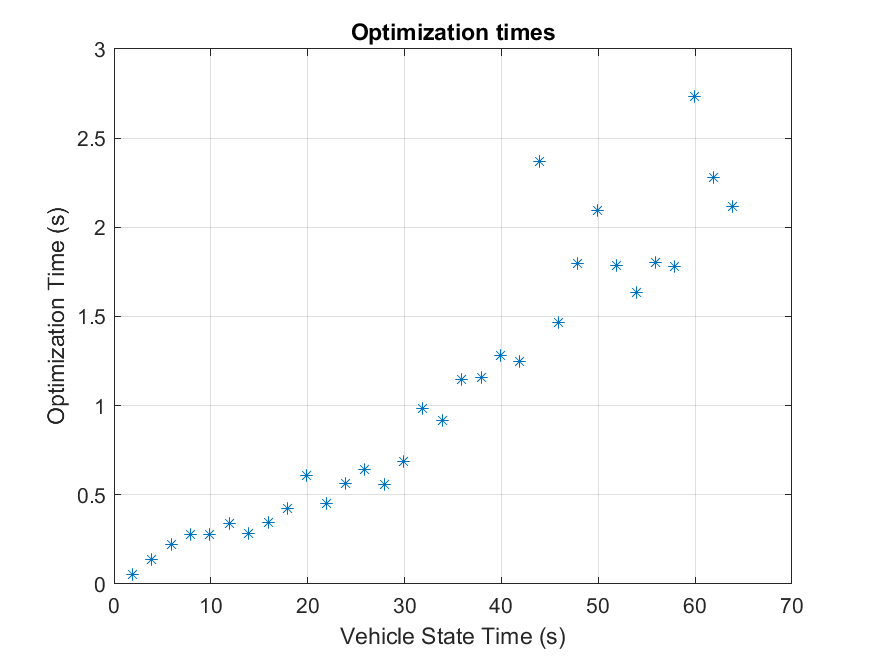
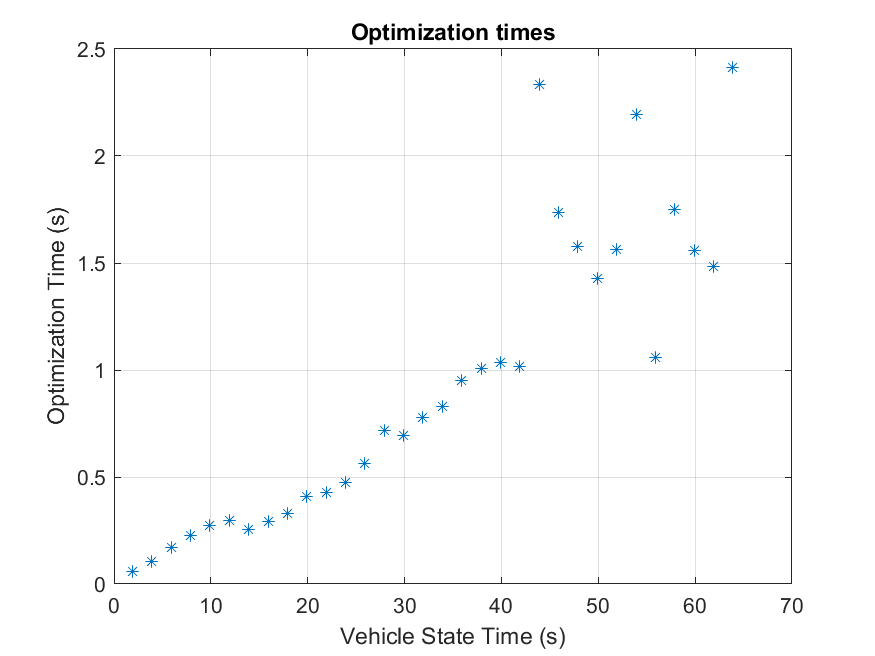
updates

diff --git a/Code/plotter.m b/Code/plotter.m
@@ -16,27 +16,56 @@ end
 if isempty(plots) || ismember("Errors",plots)
 minislam.graphics.FigureManager.getFigure('Errors');
 clf
-plot(results{:}.vehicleStateTime, results{:}.vehicleStateHistory'-results{:}.vehicleTrueStateHistory')
+error = results{:}.vehicleStateHistory'-results{:}.vehicleTrueStateHistory';
+plot(results{:}.vehicleStateTime, error(:,1:2))
 xlabel("Vehicle State Time (s)")
-ylabel("Error")
-legend("X Error","Y Error","\Phi Error")
-title("State Error")
+ylabel("Error (m)")
+legend("X Error","Y Error")
+title("Vehicle Position Error")
 grid on
-saveas(gcf, plot_heading+'_error', 'png');
-hold on
+saveas(gcf, plot_heading+'_position_error', 'png');
+end
+
+if isempty(plots) || ismember("Errors",plots)
+minislam.graphics.FigureManager.getFigure('Heading Errors');
+clf
+error = results{:}.vehicleStateHistory'-results{:}.vehicleTrueStateHistory';
+plot(results{:}.vehicleStateTime, error(:,3))
+xlabel("Vehicle State Time (s)")
+ylabel("Error (rad)")
+legend("\Phi Error")
+title("Vehicle Heading Error")
+grid on
+saveas(gcf, plot_heading+'_heading_error', 'png');
 end
 
 if isempty(plots) || ismember("Covariance",plots)
 % Plot covariance
 minislam.graphics.FigureManager.getFigure('Vehicle Covariances');
 clf
-plot(results{:}.vehicleStateTime, results{:}.vehicleCovarianceHistory')
-ylabel("Covariance")
+cov = results{:}.vehicleCovarianceHistory';
+plot(results{:}.vehicleStateTime, cov(:,1:2))
+ylabel("Covariance (m^2)")
 xlabel("Vehicle State Time (s)")
-legend("X Variance","Y Variance","\Phi Variance")
-title("State Covariances")
+legend("X Variance","Y Variance")
+title("Vehicle Position Covariances")
 grid on
-saveas(gcf, plot_heading+'_covariance', 'png');
+saveas(gcf, plot_heading+'_position_covariance', 'png');
+hold on
+end
+
+if isempty(plots) || ismember("Covariance",plots)
+% Plot covariance
+minislam.graphics.FigureManager.getFigure('Vehicle Heading Covariances');
+clf
+cov = results{:}.vehicleCovarianceHistory';
+plot(results{:}.vehicleStateTime, cov(:,3))
+ylabel("Covariance (rad^2)")
+xlabel("Vehicle State Time (s)")
+legend("\Phi Covariance")
+title("Vehicle Heading Covariances")
+grid on
+saveas(gcf, plot_heading+'_heading_covariance', 'png');
 hold on
 end
 

diff --git a/Code/q1_b.m b/Code/q1_b.m
@@ -10,7 +10,7 @@ configuration = drivebot.SimulatorConfiguration();
 % with no noise in them. You might find this useful for debugging.
 % However, unless specified otherwise, any submitted results must have this
 % value set to true.
-configuration.perturbWithNoise = false;
+configuration.perturbWithNoise = true;
 
 % Set up the simulator
 simulator = drivebot.DriveBotSimulator(configuration, 'q1_b');
@@ -18,7 +18,7 @@ simulator = drivebot.DriveBotSimulator(configuration, 'q1_b');
 % Create the localization system
 drivebotSLAMSystem = drivebot.DriveBotSLAMSystem(configuration);
 
-drivebotSLAMSystem.setRecommendOptimizationPeriod(10);
+drivebotSLAMSystem.setRecommendOptimizationPeriod(5);
 
 % This tells the SLAM system to do a very detailed check that the input
 % appears to be correct but can make the code run slowly. Once you are
@@ -32,4 +32,4 @@ results = minislam.mainLoop(simulator, drivebotSLAMSystem);
 % results. For your report, you need to look at improving these figures
 % including labelling axes, etc.
 
-plotter(["Errors","Covariance"],"Figures/q1b",results)
+plotter(["Errors","Covariance","Chi2"],"Figures/q1b",results)

diff --git a/Code/q1_d.m b/Code/q1_d.m
@@ -10,7 +10,7 @@ configuration.enableGPS = true;
 % with no noise in them. You might find this useful for debugging.
 % However, unless specified otherwise, any submitted results for any questions or subparts of questions
 % must have this value set to true.
-configuration.perturbWithNoise = false;
+configuration.perturbWithNoise = true;
 
 % Set up the simulator
 simulator = drivebot.DriveBotSimulator(configuration, 'q1_d');
@@ -18,7 +18,7 @@ simulator = drivebot.DriveBotSimulator(configuration, 'q1_d');
 % Create the localization system
 drivebotSLAMSystem = drivebot.DriveBotSLAMSystem(configuration);
 
-% drivebotSLAMSystem.setRecommendOptimizationPeriod(10);
+% drivebotSLAMSystem.setRecommendOptimizationPeriod(1);
 
 % This tells the SLAM system to do a very detailed check that the input
 % appears to be correct but can make the code run slowly. Once you are

diff --git a/Code/+drivebot/DriveBotSLAMSystem.m b/Code/+drivebot/DriveBotSLAMSystem.m
@@ -124,6 +124,7 @@ classdef DriveBotSLAMSystem < minislam.slam.SLAMSystem
             [xS, PS] = this.graph.computeMarginals(this.currentVehicleVertex);
             x=full(xS);
             P=full(PS);
+            disp(P)
         end
         
         % Returns the entire history of the platform estimates. Suppose
@@ -299,6 +300,8 @@ classdef DriveBotSLAMSystem < minislam.slam.SLAMSystem
             % Create a GPS measurement edge and add it to the graph
             % warning('drivebotslam:handlegpsobservationevent:unimplemented', ...
             %     'Implement the rest of this method for Q1c.');
+
+            disp(event)
 
             % Creates a new GPSMeasurement Edge
             gpsMeasurementEdge = drivebot.graph.GPSMeasurementEdge(this.configuration.gpsPositionOffset);

diff --git a/Code/q2_d.m b/Code/q2_d.m
@@ -1,5 +1,5 @@
 % This script runs Q2(d)
-
+rng(0)
 % Create the configuration object.
 configuration = drivebot.SimulatorConfiguration();
 
@@ -56,10 +56,10 @@ saveas(gcf, 'Figures/q2d_before_loop_closure', 'png');
 [x, beforeP, landmarkIds] = drivebotSLAMSystem.landmarkEstimates();
 
 disp("Landmark Covariance Determinants")
-disp(["Landmark ID","Determinant Before","Determinant After"])
+disp(["Landmark ID","Uncertainty Change"])
 for i=1:length(beforeP)
     landmarkCovBefore = beforeP(:,:,i);
     landmarkCovAfter = afterP(:,:,i);
-    disp([landmarkIds(i),det(landmarkCovBefore),det(landmarkCovAfter)])
+    disp([landmarkIds(i),sqrt(det(landmarkCovBefore)),sqrt(det(landmarkCovAfter)),sqrt(det(landmarkCovBefore))-sqrt(det(landmarkCovAfter))])
 end
 

diff --git a/Code/Libraries/+g2o/+core/SparseOptimizer.m b/Code/Libraries/+g2o/+core/SparseOptimizer.m
@@ -123,7 +123,7 @@ classdef SparseOptimizer < g2o.core.OptimizableGraph
                 PX = inv(this.HX);
             end
 
-            % disp(inv(this.HX))
+            % disp(full(this.HX))
             
             idx = 1;
             for v = 1 : length(vertices)
@@ -138,6 +138,8 @@ classdef SparseOptimizer < g2o.core.OptimizableGraph
                 end
                 idx = idx + d;
             end
+
+            % disp(Px)
         end
         
         % This returns the computed information vector and information

diff --git a/Code/+drivebot/DriveBotSimulator.m b/Code/+drivebot/DriveBotSimulator.m
@@ -228,6 +228,7 @@ classdef DriveBotSimulator < minislam.event_generators.EventGenerator
                 
             this.nextGPSTime = this.nextGPSTime + this.configuration.gpsMeasurementPeriod + ...
                 rand * this.configuration.sensorDitherTime;
+            disp(["GPS Time: ",this.nextGPSTime])
             
             % Work out the GPS location in world-fixed coordinates
             M=[cos(this.x(3)) -sin(this.x(3));sin(this.x(3)) cos(this.x(3))];
